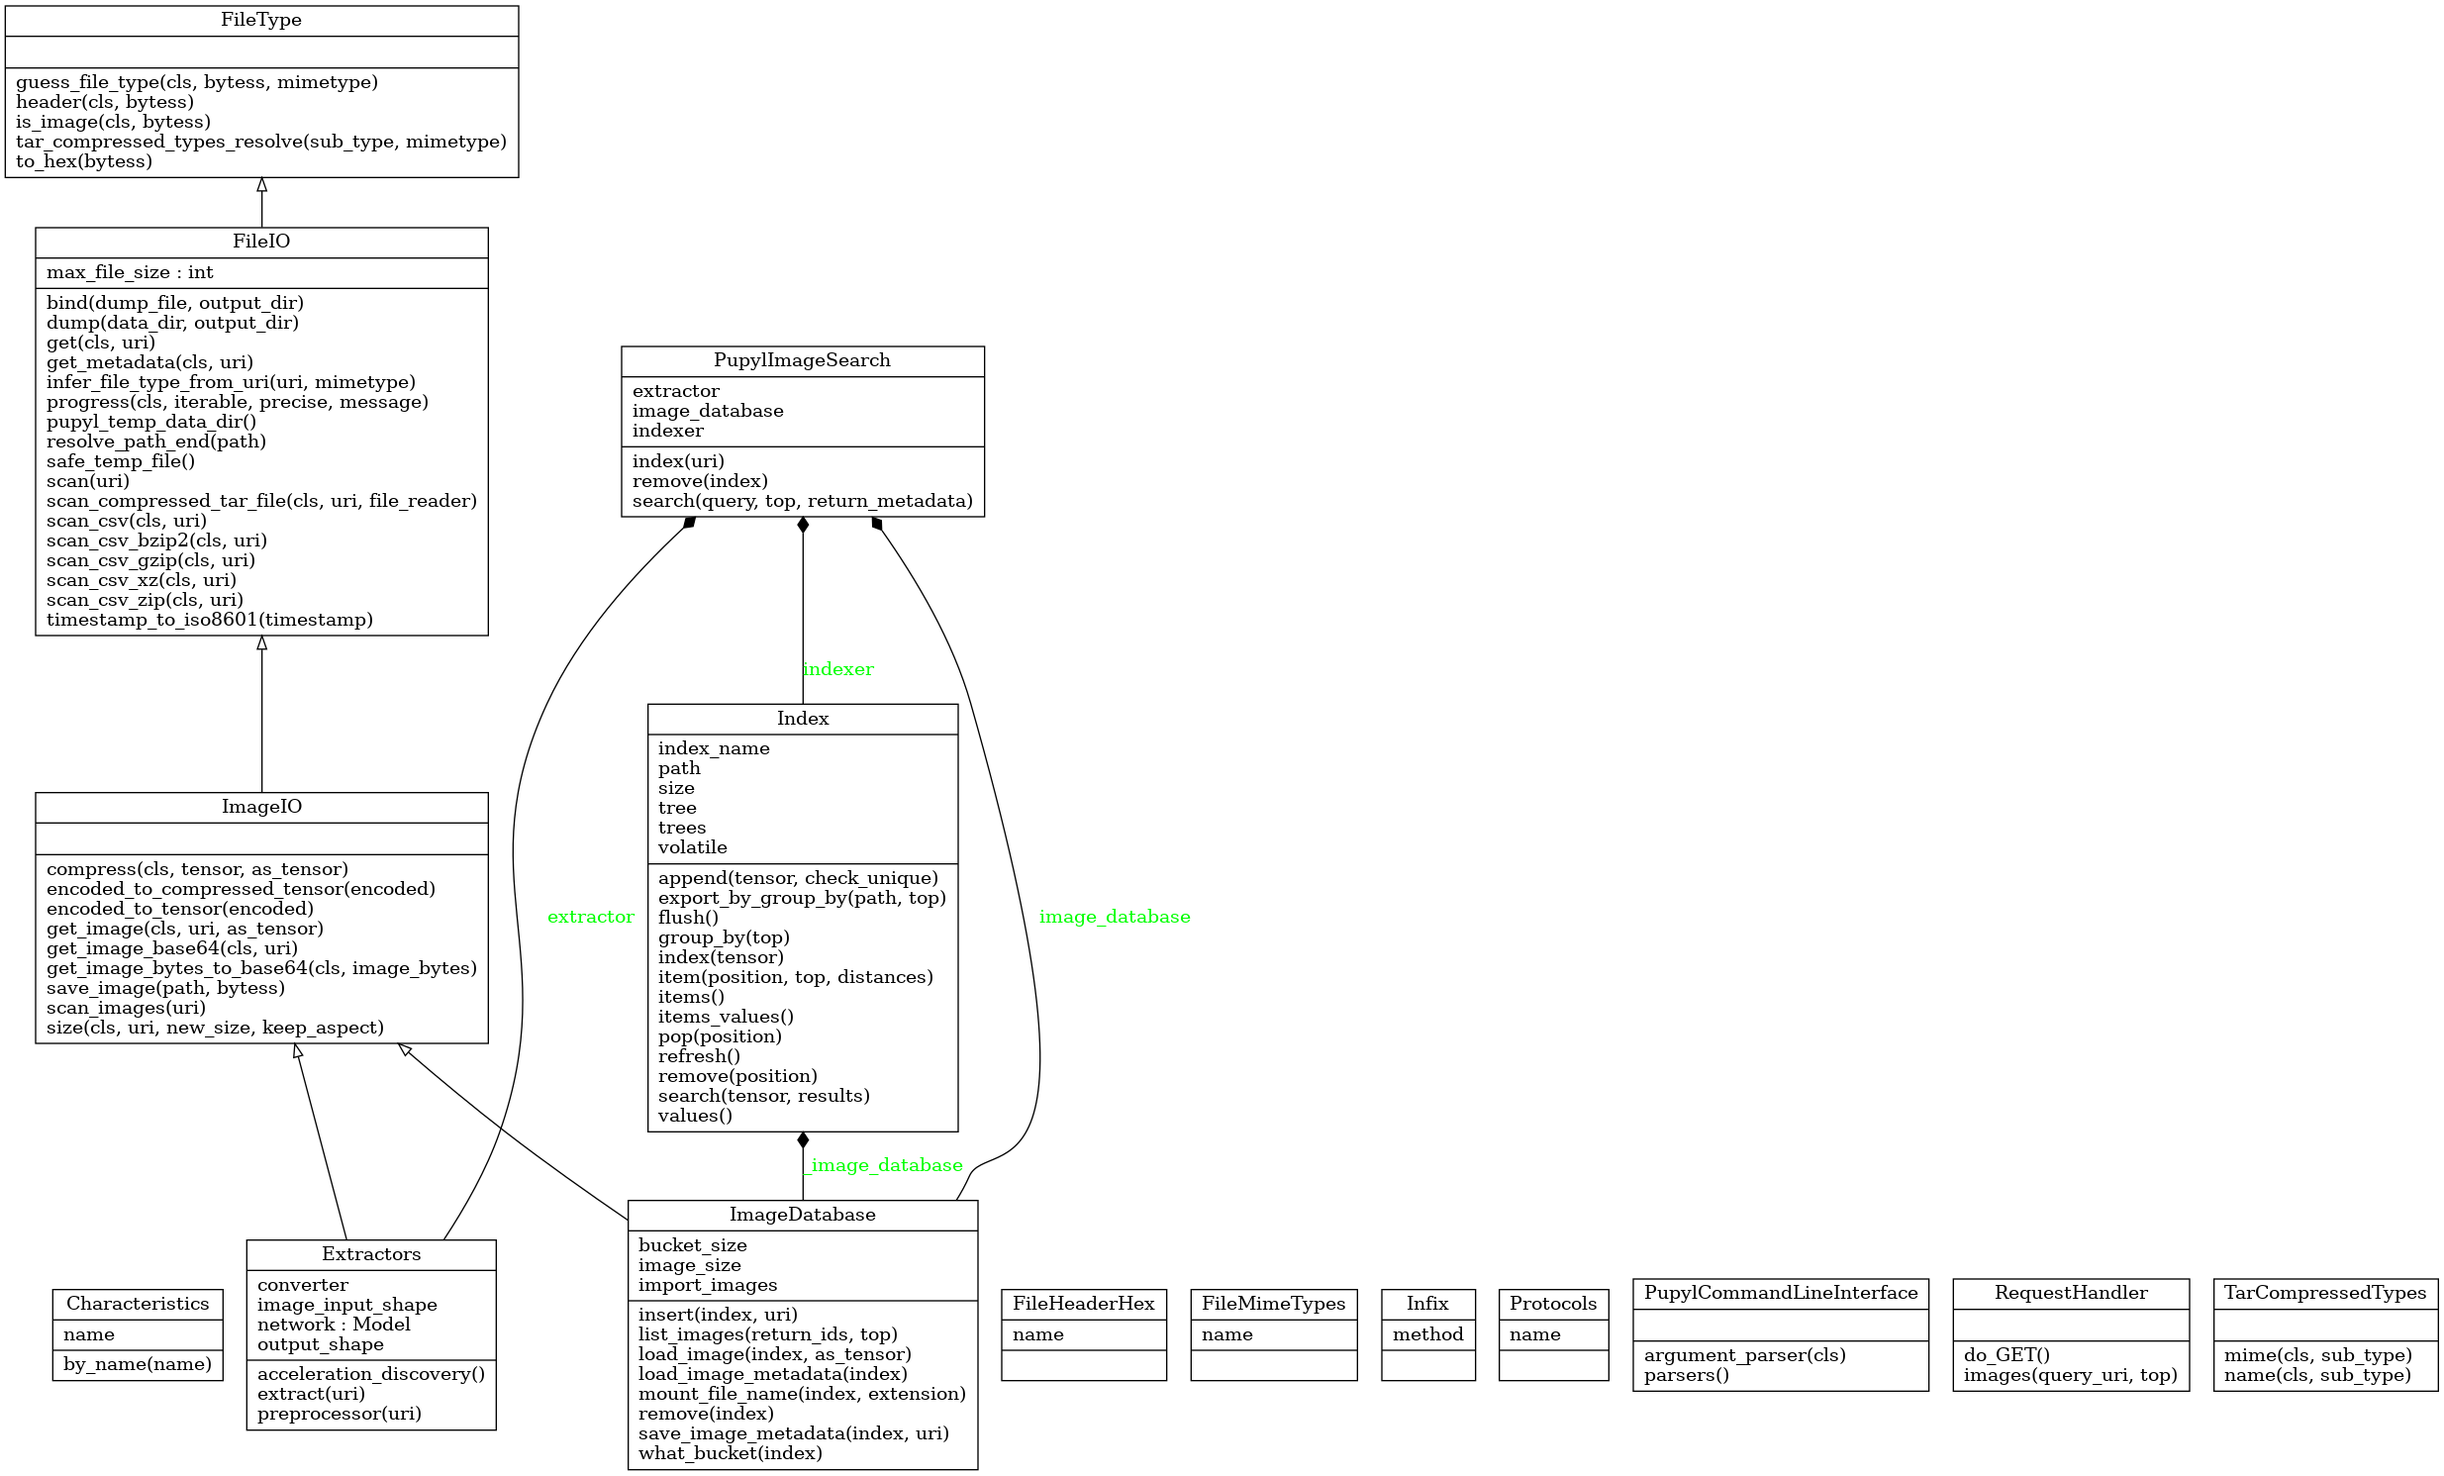
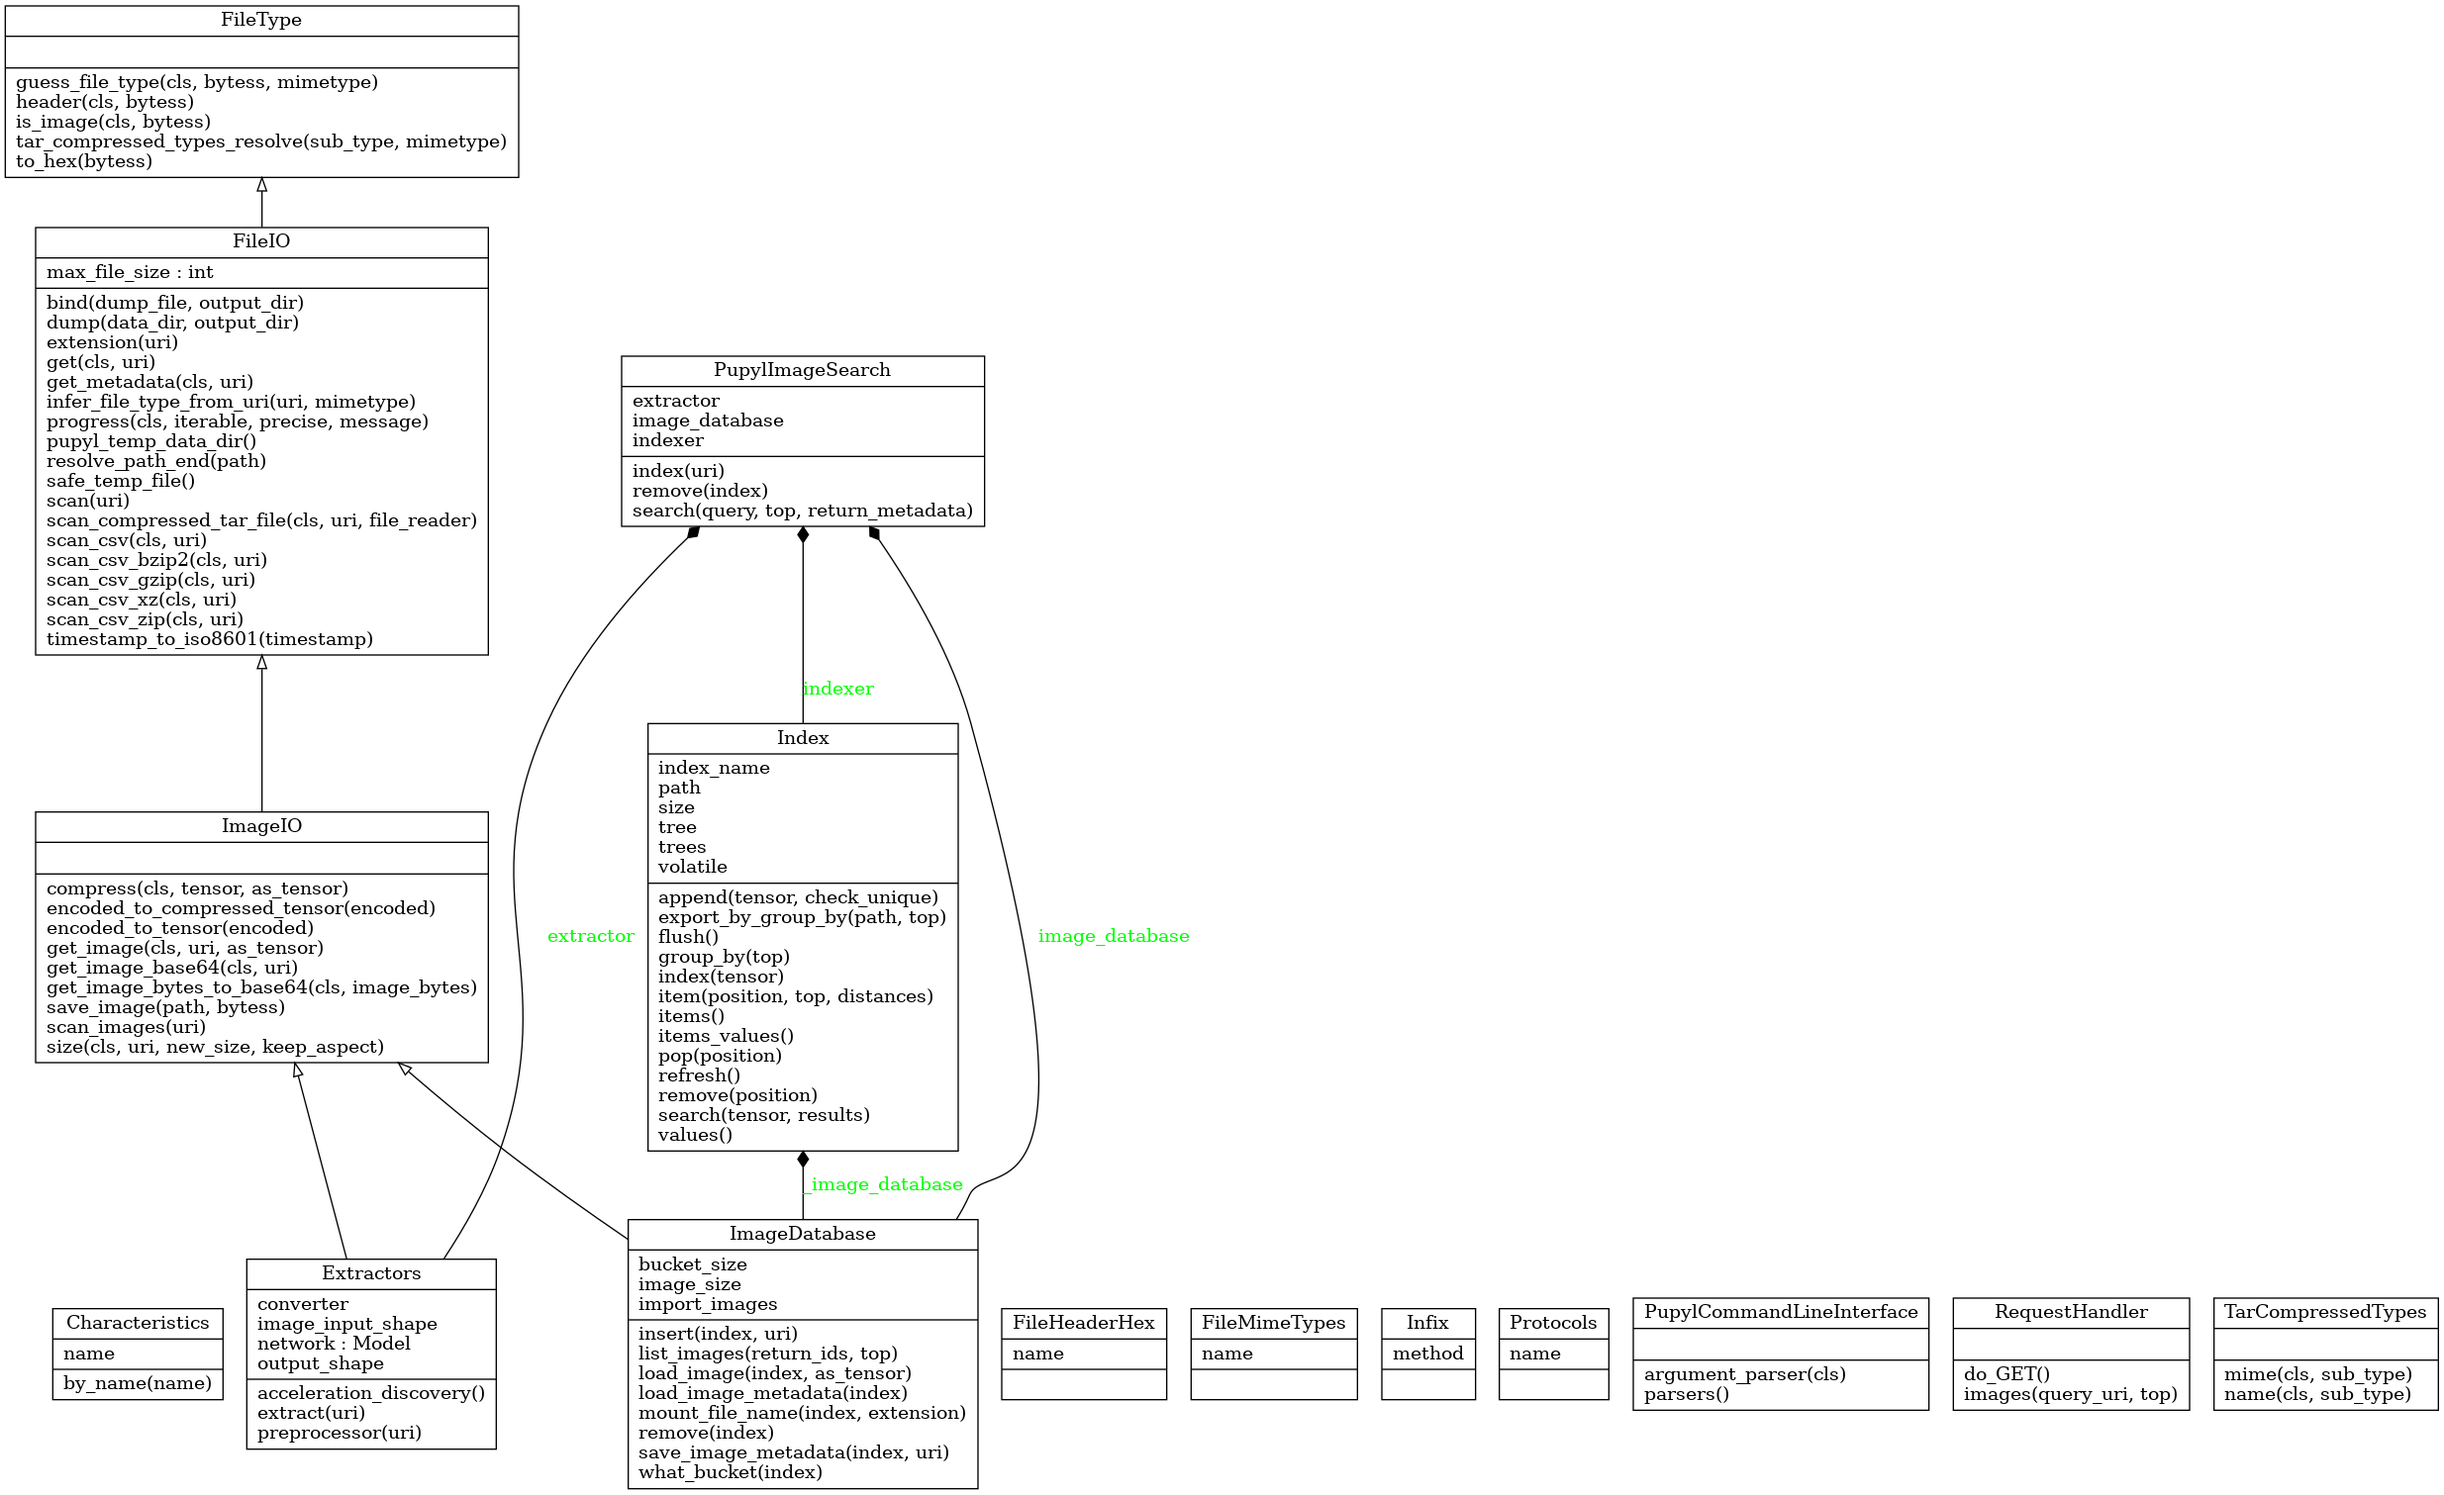
✨ Adding support for GIFs

diff --git a/pupyl/storage/database.py b/pupyl/storage/database.py
@@ -1,6 +1,7 @@
 """Operations and storage for images."""
 
 import os
+from shutil import copy, move
 import json
 
 from pupyl.duplex.image import ImageIO
@@ -339,20 +340,10 @@ class ImageDatabase(ImageIO):
         every image with index greater than 54 will have the ``id``
         decreased by one.
         """
-        image_path = self.load_image_metadata(
-            len(self), filtered=['internal_path']
-        )['internal_path']
-        metadata_path = self.mount_file_name(index, 'json')
-
-        os.remove(image_path)
-        os.remove(metadata_path)
-
-        for old_id in range(index + 1, len(self) + 1):
+        for old_id in range(index + 1, len(self)):
             new_id = old_id - 1
 
-            metadata_old_id = self.mount_file_name(old_id, 'json')
-            metadata_new_id = self.mount_file_name(new_id, 'json')
-
+            # Renaming images first
             image_old_id = self.load_image_metadata(
                 old_id, filtered=['internal_path']
             )['internal_path']
@@ -361,10 +352,16 @@ class ImageDatabase(ImageIO):
                 new_id, filtered=['internal_path']
             )['internal_path']
 
-            os.rename(image_old_id, image_new_id)
+            move(image_old_id, image_new_id)
+
+            # Now, the metadata files
+            metadata_old_id = self.mount_file_name(old_id, 'json')
+            metadata_new_id = self.mount_file_name(new_id, 'json')
+
+            copy(metadata_old_id, metadata_new_id)
 
             with open(
-                metadata_old_id, 'r+', encoding='utf-8'
+                metadata_new_id, 'r+', encoding='utf-8'
             ) as metadata_file:
                 metadata = json.load(metadata_file)
 
@@ -374,7 +371,7 @@ class ImageDatabase(ImageIO):
                 metadata_file.seek(0)
                 json.dump(metadata, metadata_file)
 
-            os.rename(metadata_old_id, metadata_new_id)
+        os.remove(self.mount_file_name(len(self), 'json'))
 
     def list_images(self, return_ids=False, top=None):
         """Returns images on current database.

diff --git a/pupyl/indexer/facets.py b/pupyl/indexer/facets.py
@@ -2,7 +2,7 @@
 
 import os
 from warnings import warn as warning
-from shutil import move, copyfile
+from shutil import move, copy
 
 from annoy import AnnoyIndex
 
@@ -609,19 +609,16 @@ class Index:
                 exist_ok=True
             )
 
-            try:
-                copyfile(
-                    self._image_database.load_image_metadata(
-                        item,
-                        filtered=['internal_path']
-                    )['internal_path'],
-                    os.path.join(
-                        save_path,
-                        'group.jpg'
-                    )
+            copy(
+                self._image_database.load_image_metadata(
+                    item,
+                    filtered=['internal_path']
+                )['internal_path'],
+                os.path.join(
+                    save_path,
+                    'group.jpg'
                 )
-            except FileNotFoundError:
-                continue
+            )
 
             for rank, similar in enumerate(similars):
 
@@ -630,17 +627,14 @@ class Index:
                     filtered=['internal_path']
                 )['internal_path']
 
-                try:
-                    file_extension = self._image_database.extension(
-                        original_file_path
-                    )
+                file_extension = self._image_database.extension(
+                    original_file_path
+                )
 
-                    copyfile(
-                        original_file_path,
-                        os.path.join(
-                            save_path,
-                            f'{rank + 1}{file_extension}'
-                        )
+                copy(
+                    original_file_path,
+                    os.path.join(
+                        save_path,
+                        f'{rank + 1}{file_extension}'
                     )
-                except FileNotFoundError:
-                    continue
+                )

diff --git a/pupyl/search.py b/pupyl/search.py
@@ -12,7 +12,7 @@ import os
 import json
 import concurrent.futures
 
-import numpy
+from numpy import empty
 
 from pupyl.duplex.file_io import FileIO
 from pupyl.duplex.exceptions import FileIsNotImage
@@ -192,7 +192,7 @@ class PupylImageSearch:
                 ):
                     ranks.append(futures[future])
 
-            embeddings = numpy.empty((len(ranks), self.extractor.output_shape))
+            embeddings = empty((len(ranks), self.extractor.output_shape))
 
             with concurrent.futures.ThreadPoolExecutor() as executor:
                 try:
@@ -205,20 +205,16 @@ class PupylImageSearch:
                         ): rank
                         for rank in ranks
                     }
-                except IndexError:
-                    raise FileIsNotImage('Please, check your input images.')
+                except IndexError as index_error:
+                    raise FileIsNotImage('Please, check your input images.') \
+                        from index_error
 
                 for future in self.extractor.progress(
                     concurrent.futures.as_completed(futures),
                     precise=False,
                     message='Extracting features:'
                 ):
-                    try:
-                        embeddings[futures[future]] = future.result()
-                    except FileIsNotImage:
-                        embeddings[futures[future]] = numpy.full(
-                            self.extractor.output_shape, 255.
-                        )
+                    embeddings[futures[future]] = future.result()
 
             for embedding in self.extractor.progress(
                 embeddings,

diff --git a/tests/test_image.py b/tests/test_image.py
@@ -15,6 +15,7 @@ from pupyl.duplex.exceptions import FileIsNotImage
 TEST_LOCAL = abspath('tests/test_image.jpg')
 TEST_LOCAL_RBGA = abspath('tests/test_png.png')
 TEST_LOCAL_GRAY = abspath('tests/test_grayscale.jpg')
+TEST_LOCAL_GIF = abspath('tests/test_gif.gif')
 TEST_NOT_IMAGE = abspath('tests/not_image.jpg')
 TEST_SAVED_TENSOR = abspath('tests/compressed_image.npy')
 TEST_SIZE = (280, 260)
@@ -52,6 +53,11 @@ def test_get_image_as_tensor():
 
     assert isinstance(
         ImageIO.get_image(TEST_LOCAL_RBGA, as_tensor=True),
+        tensorflow.Tensor
+    )
+
+    assert isinstance(
+        ImageIO.get_image(TEST_LOCAL_GIF, as_tensor=True),
         tensorflow.Tensor
     )
 

diff --git a/tests/test_database.py b/tests/test_database.py
@@ -178,6 +178,19 @@ def test_insert_import_images():
         and exists(f'{TEST_TEMP_DIRECTORY}/0/10.json')
 
 
+def test_insert_import_images_gif():
+    """Unit test for method insert, import gif images case."""
+    image_database = ImageDatabase(
+        data_dir=TEST_TEMP_DIRECTORY,
+        import_images=True
+    )
+
+    image_database.insert(11, 'tests/test_gif.gif')
+
+    assert exists(f'{TEST_TEMP_DIRECTORY}/0/11.gif') \
+        and exists(f'{TEST_TEMP_DIRECTORY}/0/11.json')
+
+
 def test_insert_no_import_images():
     """Unit test for method insert, no import images case."""
     image_database = ImageDatabase(
